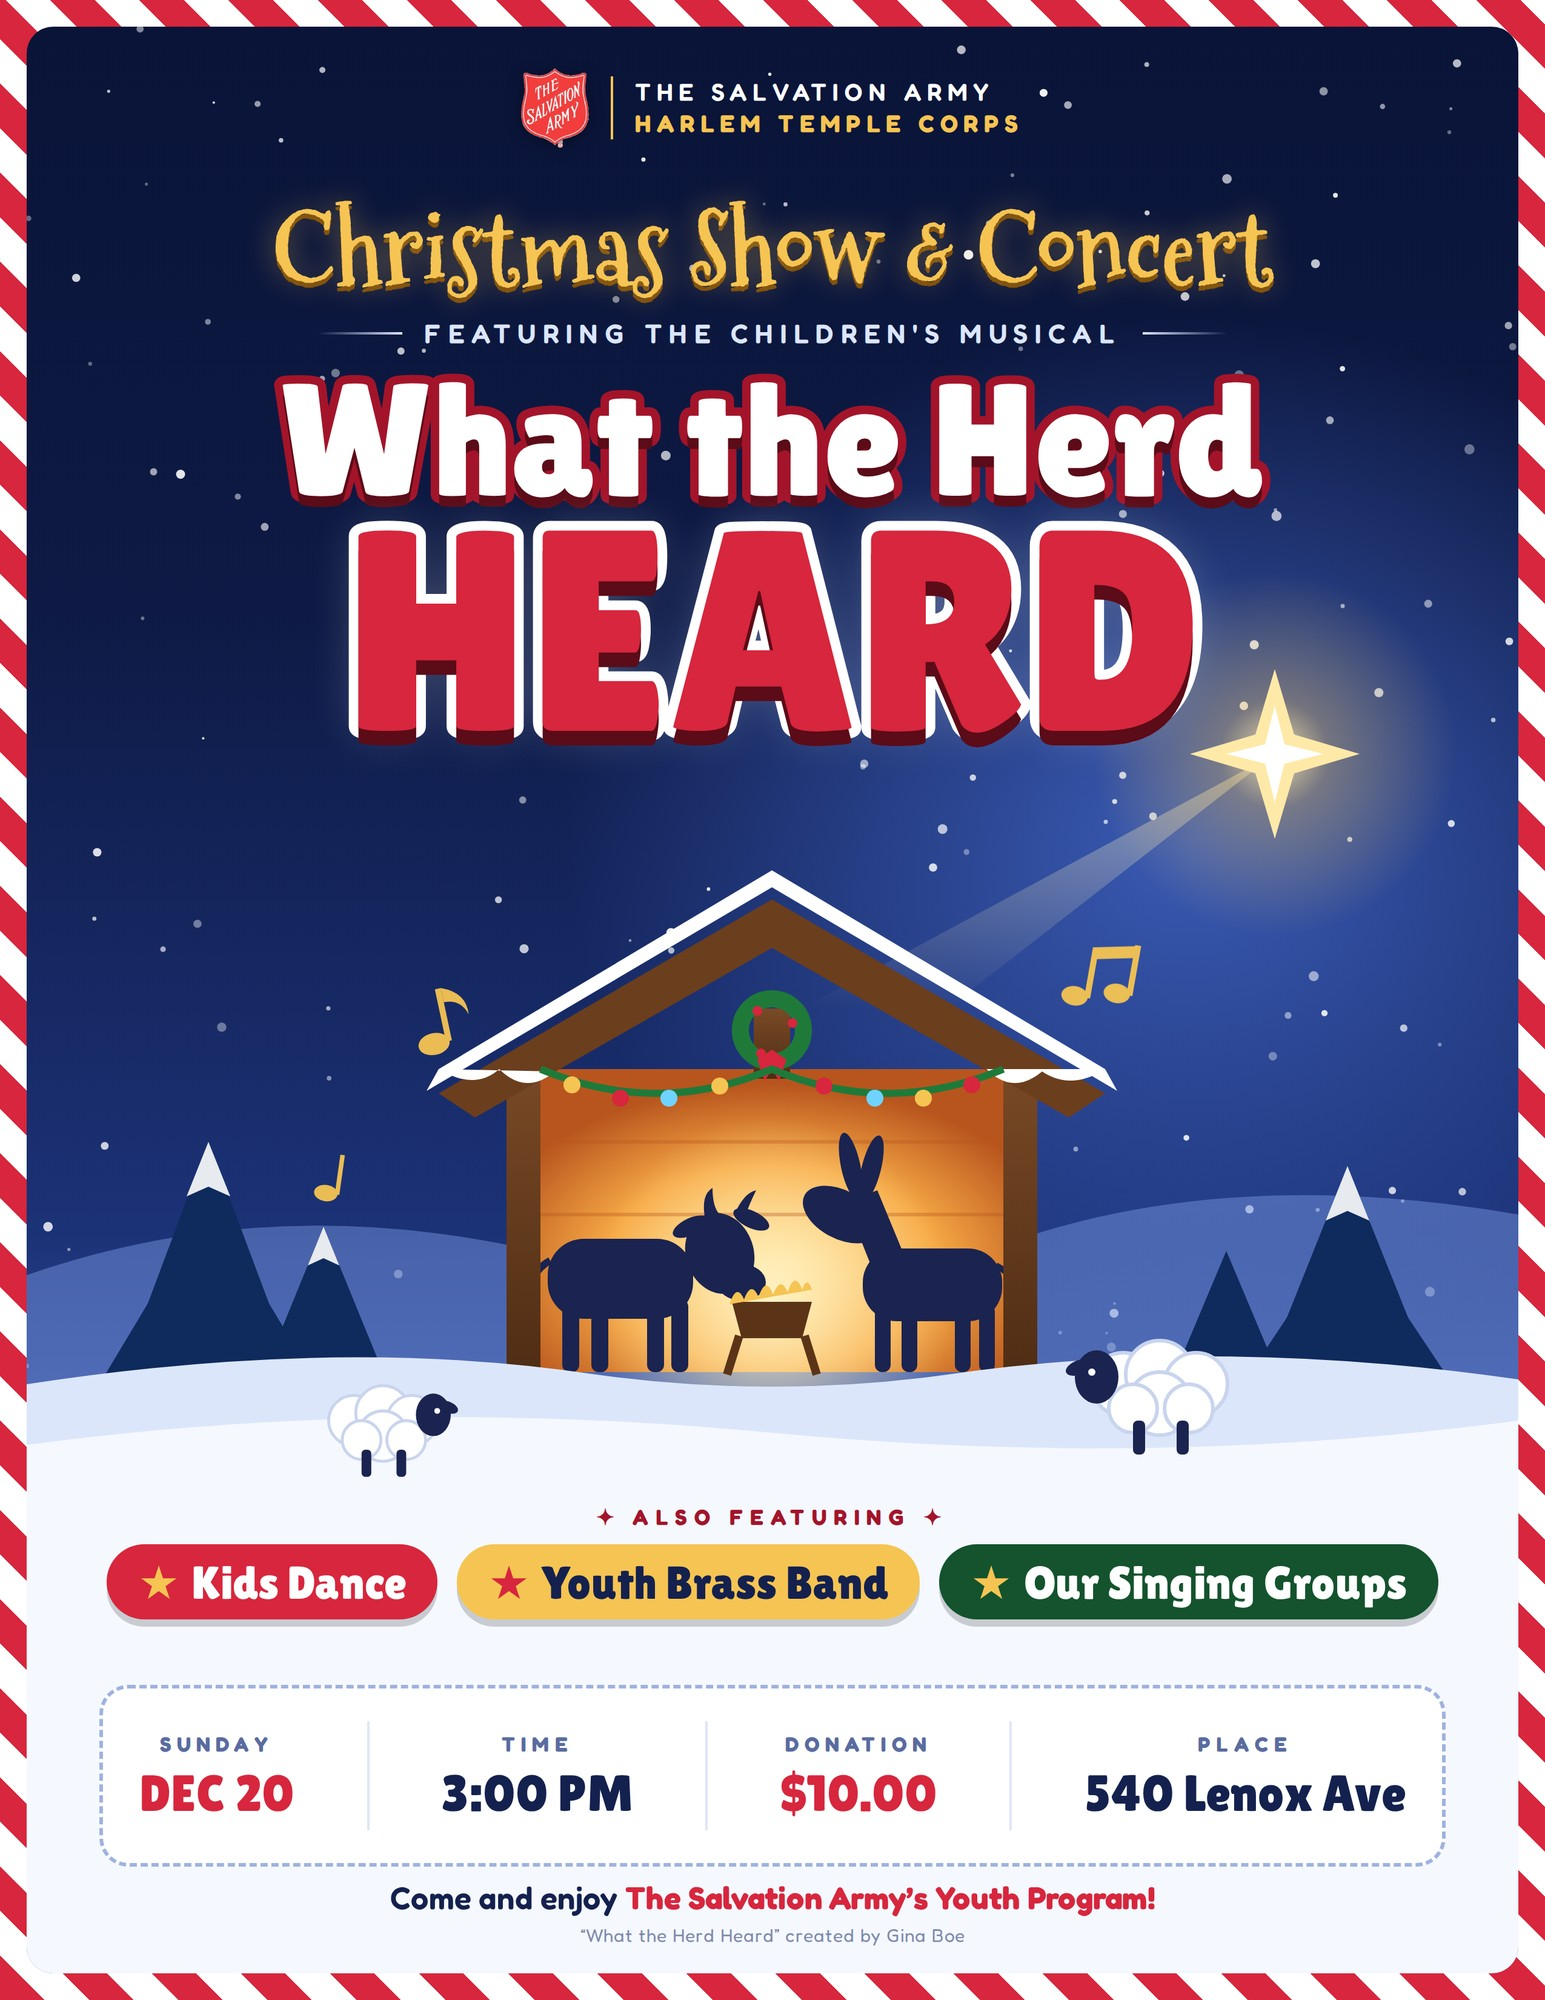
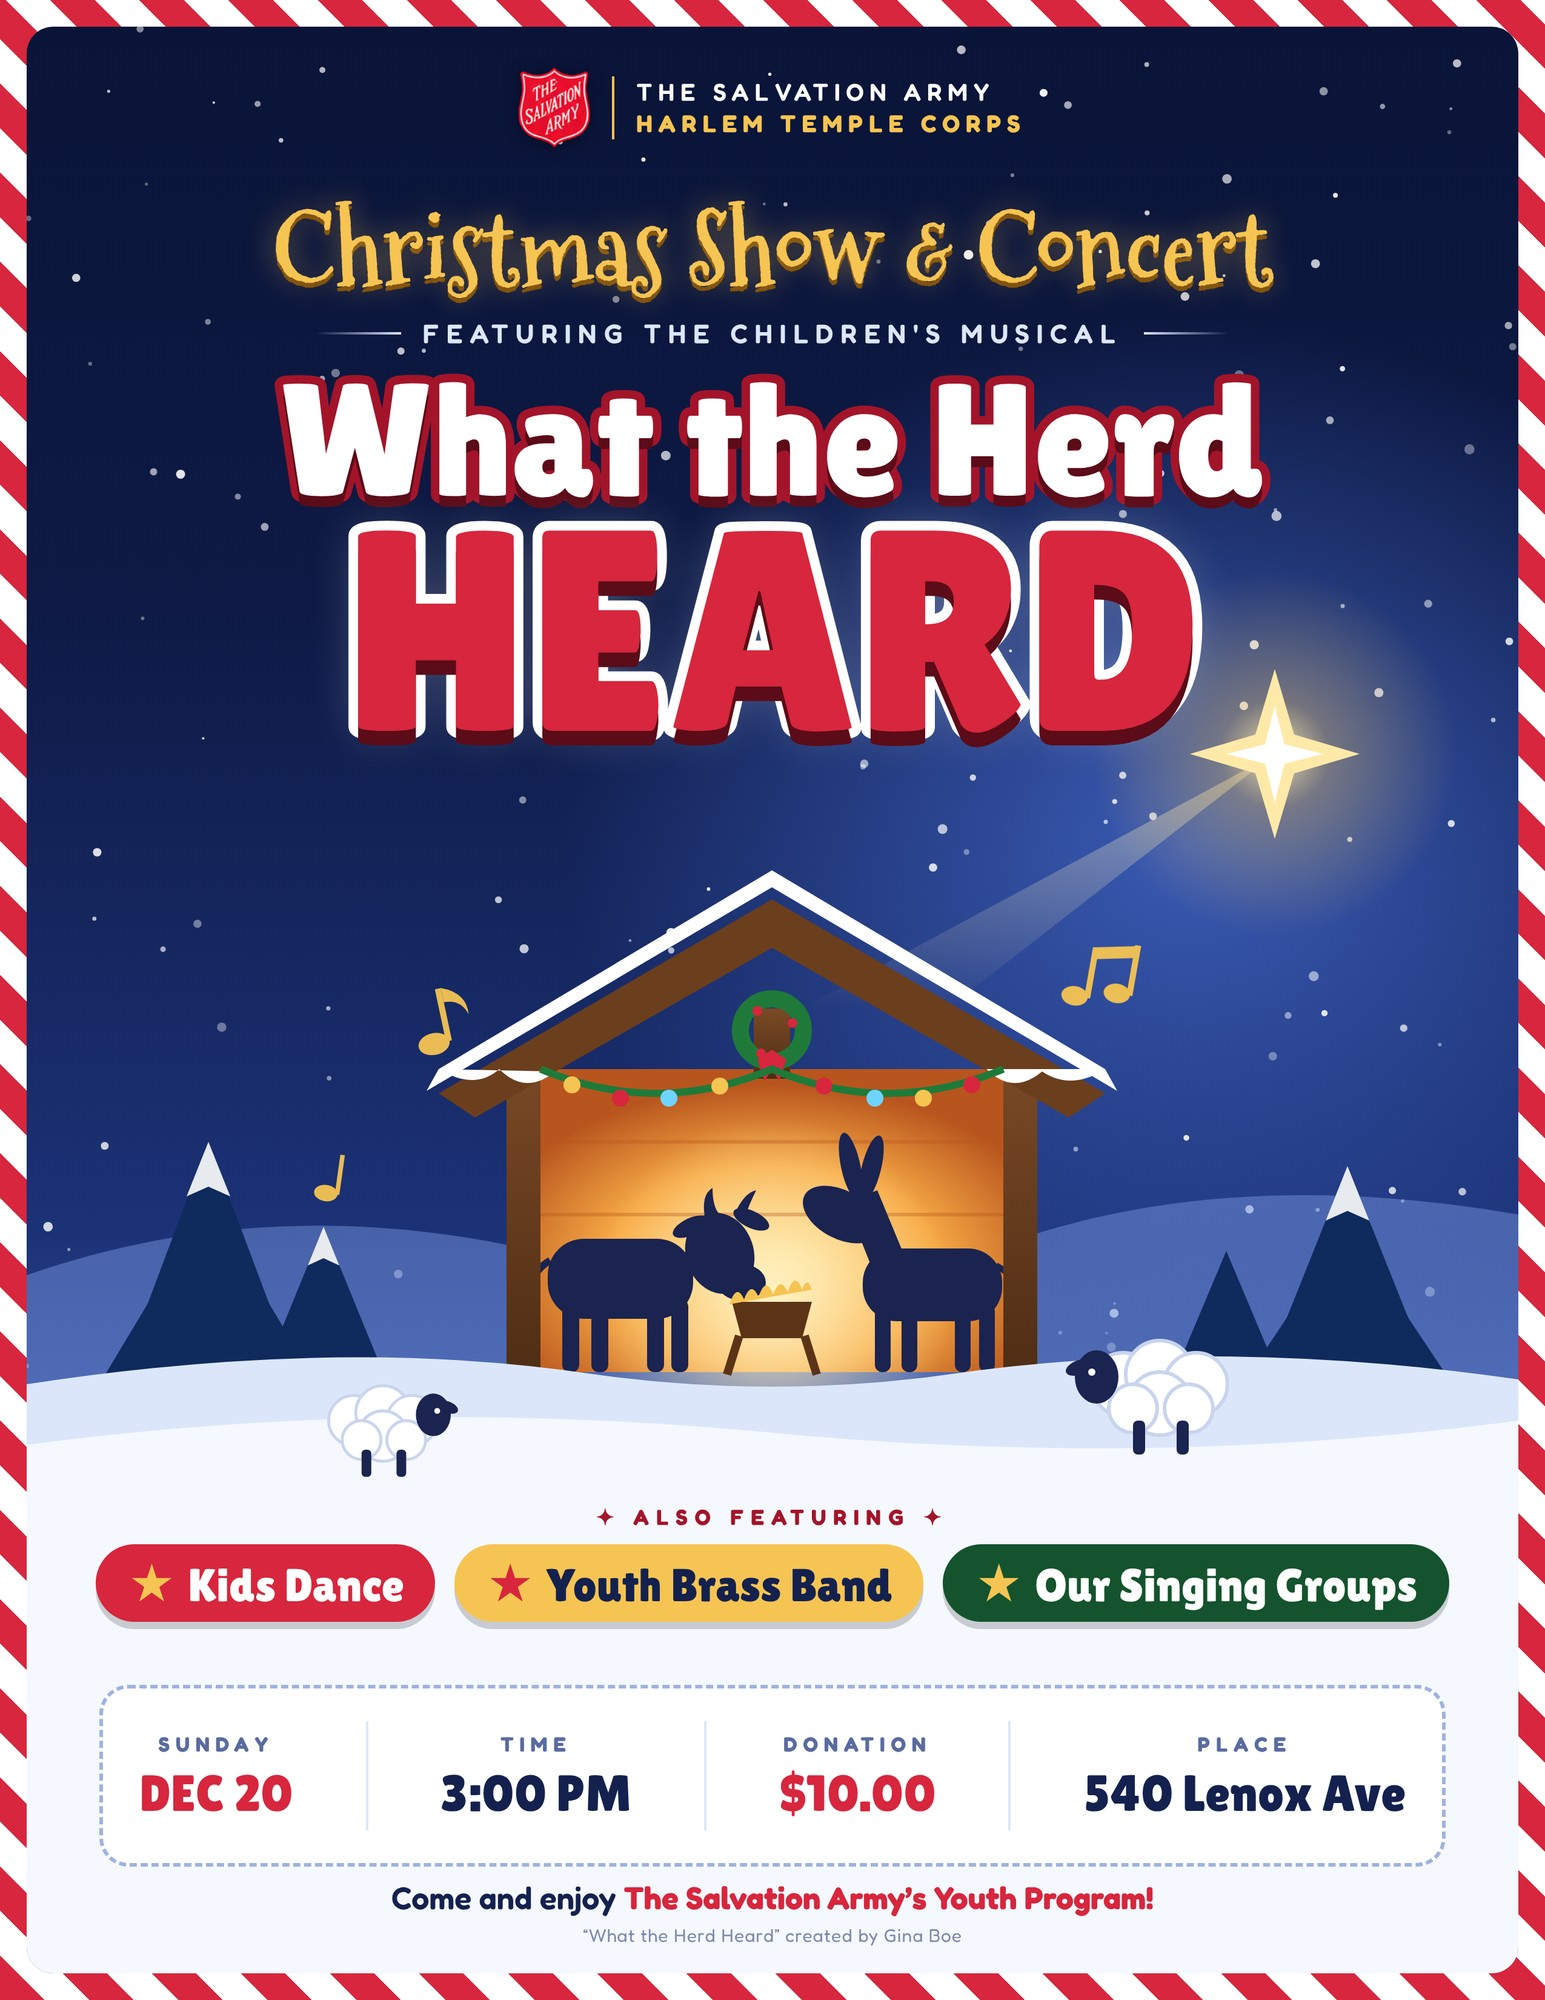
Add Sunday Worship Nov 1 flyer (Captain Clifford Douglas), ticker 3 business days ahead; refresh Christmas Show flyer with Youth Brass Band
Claude-Session: https://claude.ai/code/session_01S3UKUq4WVwmShWz9gscHpS

diff --git a/config.js b/config.js
@@ -281,6 +281,8 @@ window.LOBBY = {
       ticker: "Annual Harvest Celebration: Still We Sow · Sun, Nov 15, 3:00 PM · Guest speakers Lt. Colonels David & Margaret Davis" },
     { type: "image", media: "media/valentine-gala-tea-2027.jpg", fit: "contain", duration: 15, start: "2027-01-04", date: "2027-02-13", end: "2027-02-13",
       ticker: "Valentine Gala & Tea · Sat, Feb 13, 5:00 PM · $30 per person, $50 per couple · Dress to impress" },
+    { type: "image", media: "https://raw.githubusercontent.com/pierrenfilsaime-netizen/harlemtemple-lobby/data/media/sunday-worship-2026-11-01.jpg", fit: "contain", duration: 15, date: "2026-11-01", end: "2026-11-01",
+      ticker: "Sunday Worship · A Life That Reflects Him · Sun, Nov 1, 11:00 AM · Speaker Captain Clifford Douglas" },
     // Thank-you to the Microsoft volunteers (served Oct 27, 2026). Image is stored on the data branch, so no Netlify publish was needed.
     { type: "image", media: "https://raw.githubusercontent.com/pierrenfilsaime-netizen/harlemtemple-lobby/data/media/thank-you-microsoft-volunteers.jpg", fit: "contain", duration: 15, end: "2026-11-01" },
     { type: "image", media: "https://raw.githubusercontent.com/pierrenfilsaime-netizen/harlemtemple-lobby/data/media/christmas-show-concert-2026.jpg", fit: "contain", duration: 15, date: "2026-12-20", end: "2026-12-20",
